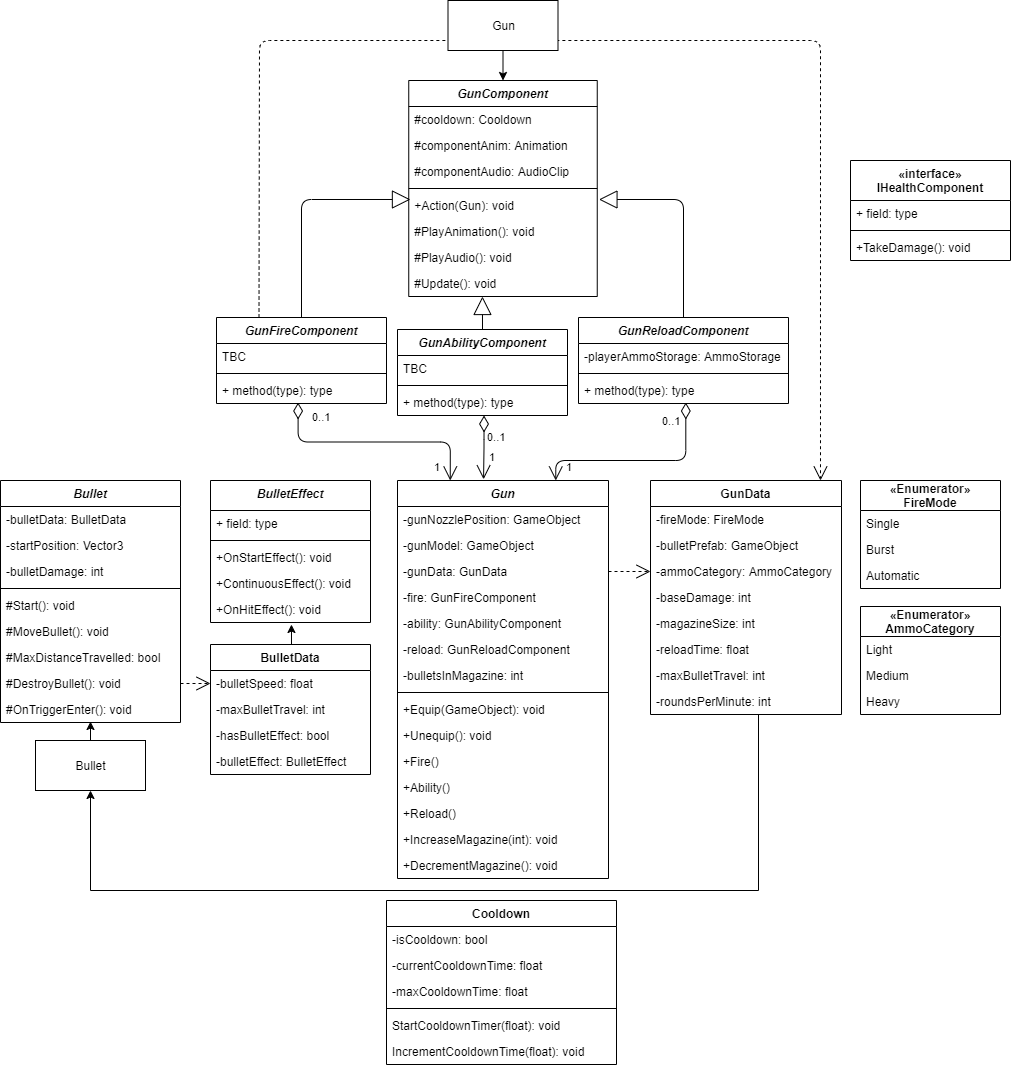
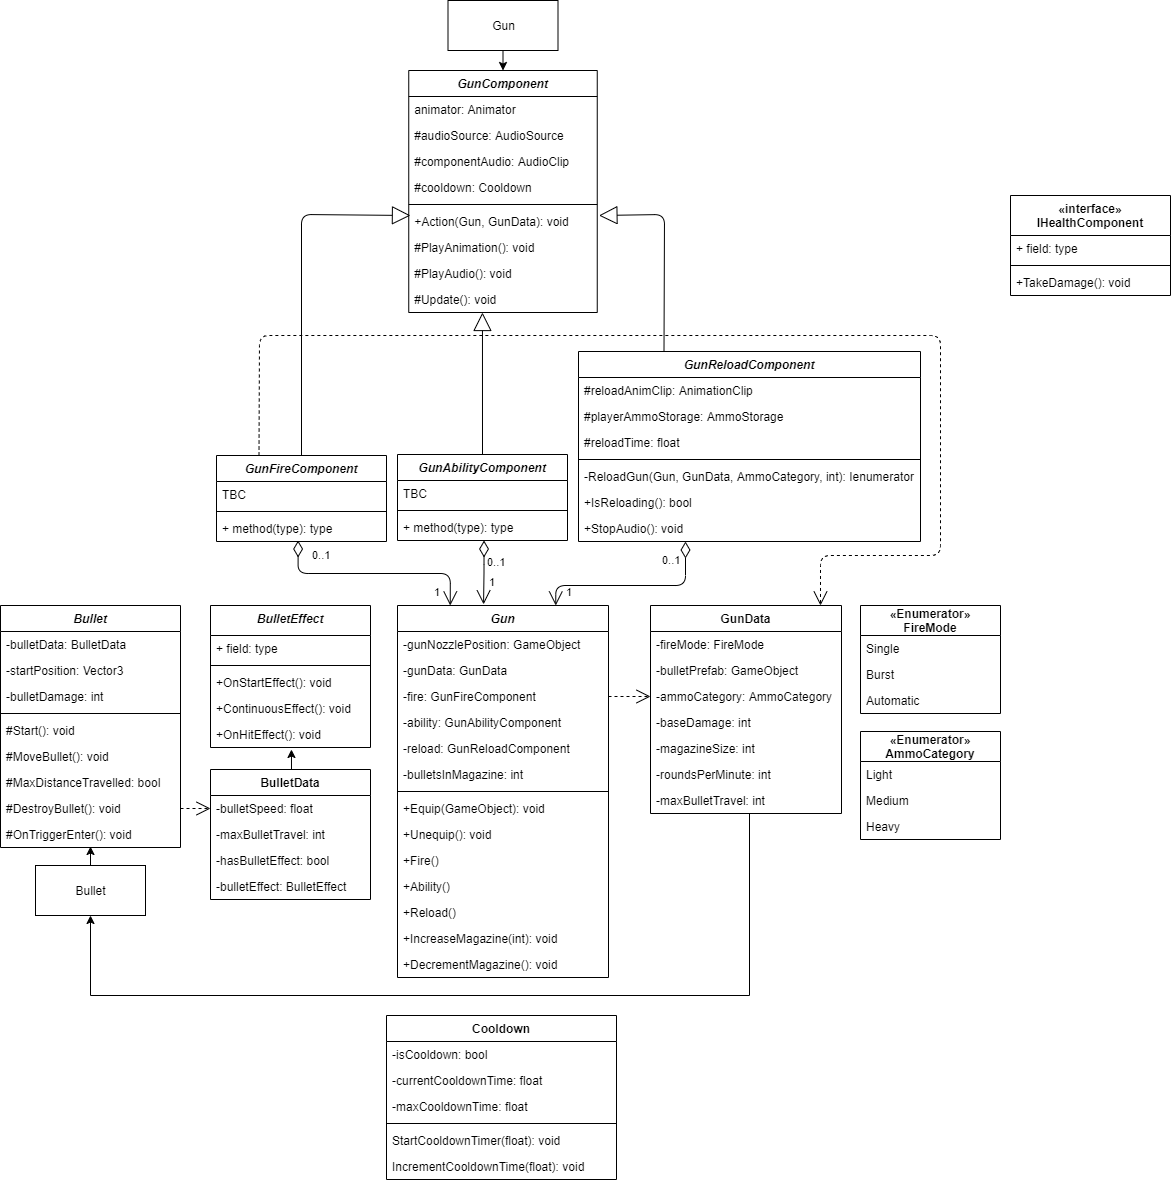
Refactor to remove dependencies
GunComponent classes obtained GunData and Animator through a getter within the Gun class creating a dependency and breaking encapsulation.

GunData is now passed as a parameter and getter has been removed.

Animator is obtained and stored within GunComponent for direct access.

Changed region(s): [[0.0, 0.0, 0.9505, 1.0], [0.8586, 0.1545, 1.0, 0.2472], [0.5826, 0.8343, 0.6133, 0.8652]]

diff --git a/Modular Weapon System/Assets/Scripts/Entities/Guns/Base Classes/GunReloadComponent.cs b/Modular Weapon System/Assets/Scripts/Entities/Guns/Base Classes/GunReloadComponent.cs
@@ -13,22 +13,24 @@ public abstract class GunReloadComponent : GunComponent
         reloadTime = reloadAnimClip.length;
     }
 
-    public override void Action(Gun gun){
-        AmmoCategory category = gun.GunData.AmmoCategory;
+    public override void Action(Gun gun, GunData gunData){
+        if (cooldown.IsCooldown) return;
+
+        AmmoCategory category = gunData.AmmoCategory;
         int availableAmmo = playerAmmoStorage.GetAmmoAmount(category);
 
         if (availableAmmo > 0){
             cooldown.StartCooldownTimer(reloadTime);
-            StartCoroutine(ReloadGun(gun, category, availableAmmo));
+            StartCoroutine(ReloadGun(gun, gunData, category, availableAmmo));
         }
     }
 
-    IEnumerator ReloadGun(Gun gun, AmmoCategory category, int availableAmmo){
+    IEnumerator ReloadGun(Gun gun, GunData gunData, AmmoCategory category, int availableAmmo){
         PlayAudio();
-        gun.GunAnimator.SetTrigger("IsReload");
+        animator.SetTrigger("IsReload");
         yield return new WaitForSeconds(reloadTime); // do not reload gun until it has been completed
 
-        int maximumReloadAmount = Mathf.Min(availableAmmo, gun.GunData.MagazineSize - gun.BulletsInMagazine); // maximum amount should never exceed magazine size
+        int maximumReloadAmount = Mathf.Min(availableAmmo, gunData.MagazineSize - gun.BulletsInMagazine); // maximum amount should never exceed magazine size
         gun.IncreaseMagazine(maximumReloadAmount);
         playerAmmoStorage.ReduceAmmoAmount(category, maximumReloadAmount);
     }

diff --git a/Modular Weapon System/Assets/Scripts/Entities/Guns/Base Classes/Gun.cs b/Modular Weapon System/Assets/Scripts/Entities/Guns/Base Classes/Gun.cs
@@ -6,18 +6,13 @@ using UnityEngine;
 public abstract class Gun : MonoBehaviour
 {
     [SerializeField] GameObject gunNozzlePosition; public GameObject GunNozzlePosition => gunNozzlePosition;
-    [SerializeField] GunData gunData; public GunData GunData => gunData;
-    Animator gunAnimator; public Animator GunAnimator => gunAnimator;
+    [SerializeField] GunData gunData;
 
     [SerializeField] GunFireComponent fire;
     [SerializeField] GunAbilityComponent ability;
     [SerializeField] GunReloadComponent reload;
 
     [SerializeField] int bulletsInMagazine; public int BulletsInMagazine => bulletsInMagazine;
-
-    void Start() {
-        gunAnimator = GetComponent<Animator>();
-    }
 
     public void Equip(GameObject gunHoldPosition){
         this.transform.parent = gunHoldPosition.transform;
@@ -31,17 +26,17 @@ public abstract class Gun : MonoBehaviour
 
     public void Fire(){
         if (bulletsInMagazine > 0 && !reload.IsReloading()){
-            fire.Action(this);
+            fire.Action(this, gunData);
         }
     }
 
     public void Ability(){
-        ability.Action(this);
+        ability.Action(this, gunData);
     }
 
     public void Reload(){
-        if (bulletsInMagazine < gunData.MagazineSize && !reload.IsReloading()){
-            reload.Action(this);
+        if (bulletsInMagazine < gunData.MagazineSize){
+            reload.Action(this, gunData);
         }
     }
 

diff --git a/Modular Weapon System/Assets/Scripts/Entities/Guns/Base Classes/GunFireComponent.cs b/Modular Weapon System/Assets/Scripts/Entities/Guns/Base Classes/GunFireComponent.cs
@@ -5,16 +5,16 @@ using UnityEngine;
 public abstract class GunFireComponent : GunComponent
 {
 
-    public override void Action(Gun gun){
+    public override void Action(Gun gun, GunData gunData){
         if (cooldown.IsCooldown) return;
 
-        cooldown.StartCooldownTimer((float)60 / gun.GunData.RoundsPerMinute);
+        cooldown.StartCooldownTimer((float)60 / gunData.RoundsPerMinute);
 
-        GameObject bullet = Instantiate(gun.GunData.BulletPrefab, gun.GunNozzlePosition.transform.position, transform.rotation);
+        GameObject bullet = Instantiate(gunData.BulletPrefab, gun.GunNozzlePosition.transform.position, transform.rotation);
         Bullet bulletScript = bullet.GetComponent<Bullet>();
-        bulletScript.BulletDamage = gun.GunData.BaseDamage;
+        bulletScript.BulletDamage = gunData.BaseDamage;
         
-        gun.GunAnimator.SetTrigger("IsFire");
+        animator.SetTrigger("IsFire");
         PlayAudio();
         gun.DecrementMagazine();
     }

diff --git a/Modular Weapon System/Assets/Scripts/Entities/Guns/Base Classes/GunComponent.cs b/Modular Weapon System/Assets/Scripts/Entities/Guns/Base Classes/GunComponent.cs
@@ -4,12 +4,13 @@ using UnityEngine;
 
 public abstract class GunComponent : MonoBehaviour
 {
+    protected Animator animator;
     protected AudioSource audioSource;
     [SerializeField] protected AudioClip componentAudio;
 
     protected Cooldown cooldown = new Cooldown();
 
-    public abstract void Action(Gun gun);
+    public abstract void Action(Gun gun, GunData gunData);
 
     protected virtual void PlayAudio(){
         if (componentAudio != null){
@@ -20,6 +21,7 @@ public abstract class GunComponent : MonoBehaviour
 
     protected virtual void Start(){
         audioSource = gameObject.AddComponent<AudioSource>();
+        animator = GetComponent<Animator>();
     }
     
     protected virtual void Update() {

diff --git a/Modular Weapon System/Assets/Scripts/Entities/Guns/Base Classes/GunAbilityComponent.cs b/Modular Weapon System/Assets/Scripts/Entities/Guns/Base Classes/GunAbilityComponent.cs
@@ -4,7 +4,7 @@ using UnityEngine;
 
 public abstract class GunAbilityComponent : GunComponent
 {
-    public override void Action(Gun gun){
+    public override void Action(Gun gun, GunData gunData){
         
     }
 }
